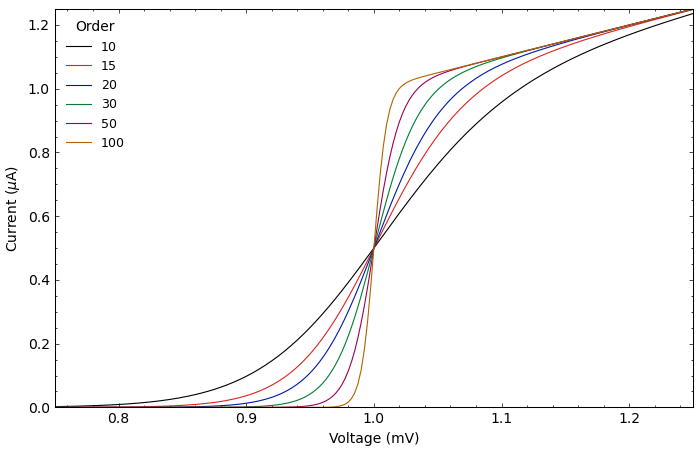
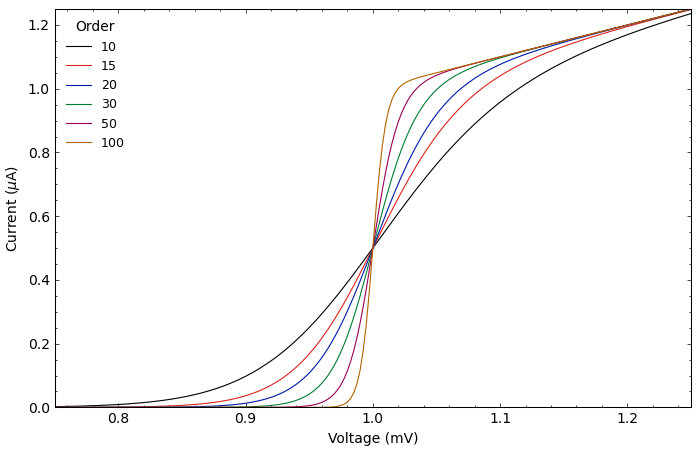
Rebuild example figures

diff --git a/examples/plot_examples/small_presentation_dark_plot.py b/examples/plot_examples/small_presentation_dark_plot.py
@@ -6,7 +6,11 @@ from stonerplots import SavedFigure
 
 from .common import x, model, pparam, figures
 
-with SavedFigure(figures / "fig05d.png", style=["stoner", "presentation", "presentation_sm"], autoclose=True):
+with SavedFigure(
+    figures / "fig05e.png",
+    style=["stoner", "stoner_dark", "presentation", "presentation_sm", "presentation_dark"],
+    autoclose=True,
+):
     fig, ax = plt.subplots()
     for p in [10, 15, 20, 30, 50, 100]:
         line = ax.plot(x, model(x, p), label=p, marker="")

diff --git a/examples/plot-examples.py b/examples/plot-examples.py
@@ -5,5 +5,8 @@ import sys
 pth = str(Path(__file__).parent)
 if pth not in sys.path:
     sys.path.insert(0, pth)
+pth = str(Path(__file__).parent.parent / "src")
+if pth not in sys.path:
+    sys.path.insert(0, pth)
 
 from plot_examples import *

diff --git a/docs/source/style-gallery.rst b/docs/source/style-gallery.rst
@@ -148,12 +148,53 @@ cycler to using the slightly lighter Tube Map 50% shade colours.
 5. Different Formats
 --------------------
 
+Notebooks
+~~~~~~~~~
+
+The *notebook* style is designed for Jupyter Notebooks.
+
+.. image:: ../../examples/figures/fig05a.png
+
+Posters
+~~~~~~~
+
+The *poster* style makes everything bigger for printing onto an A0 poster. Should be used in combination with *hi-res*
+for final printing.
+
+.. image:: ../../examples/figures/fig05b.png
+
+Presentations
+~~~~~~~~~~~~~
+
+The *presentation* style switches to a larger style, designed for use as a single graph on a PowerPoint presentation.
+
+.. image:: ../../examples/figures/fig05c.png
+
+There is a *presnetation_sm* style for when you want two plots on a slide.
+
+.. image:: ../../examples/figures/fig05d.png
+
+The *stoner_dark* style does make everything look a bit heavier and bolder, so the *presentation_dark* lightens
+everything up.
+
+.. image:: ../../examples/figures/fig05e.png
+
+High Resolution Mode
+~~~~~~~~~~~~~~~~~~~~
+
+In general for printed media you should pick a vector format for saving figures - such as eps, svg or pdf. It this
+is not feasible and a bitmapped image is needed, then a higher dpi is needed. This can be done by using the *hi-res*
+style.
+
+.. image:: ../../examples/figures/fig05f.png
+
+
 6. Miscellaneous Tweaks
 -----------------------
 
 The *grid* style adds an axes grid to the plot.
 
-.. image:: ../../examples/fig06.png
+.. image:: ../../examples/figures/fig06.png
    :alt: Plot with axes grids
    :algn: center
 
